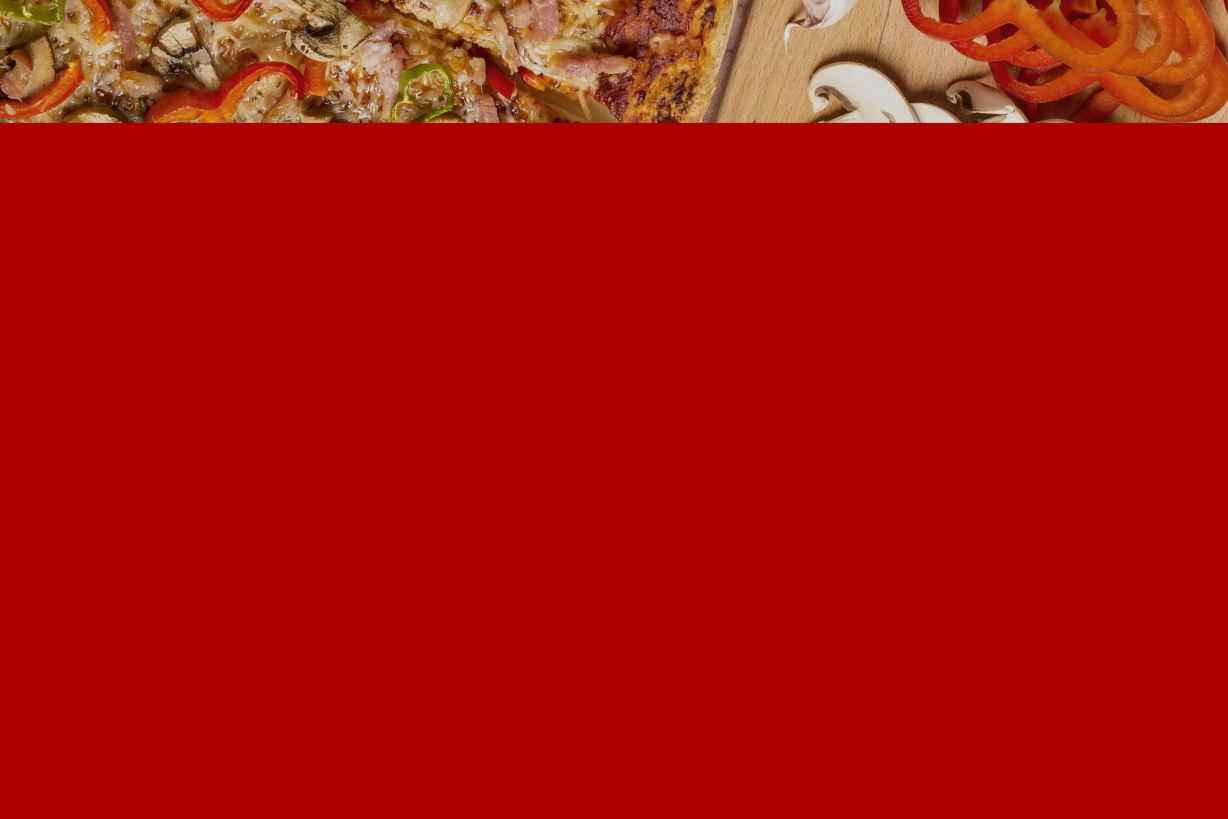
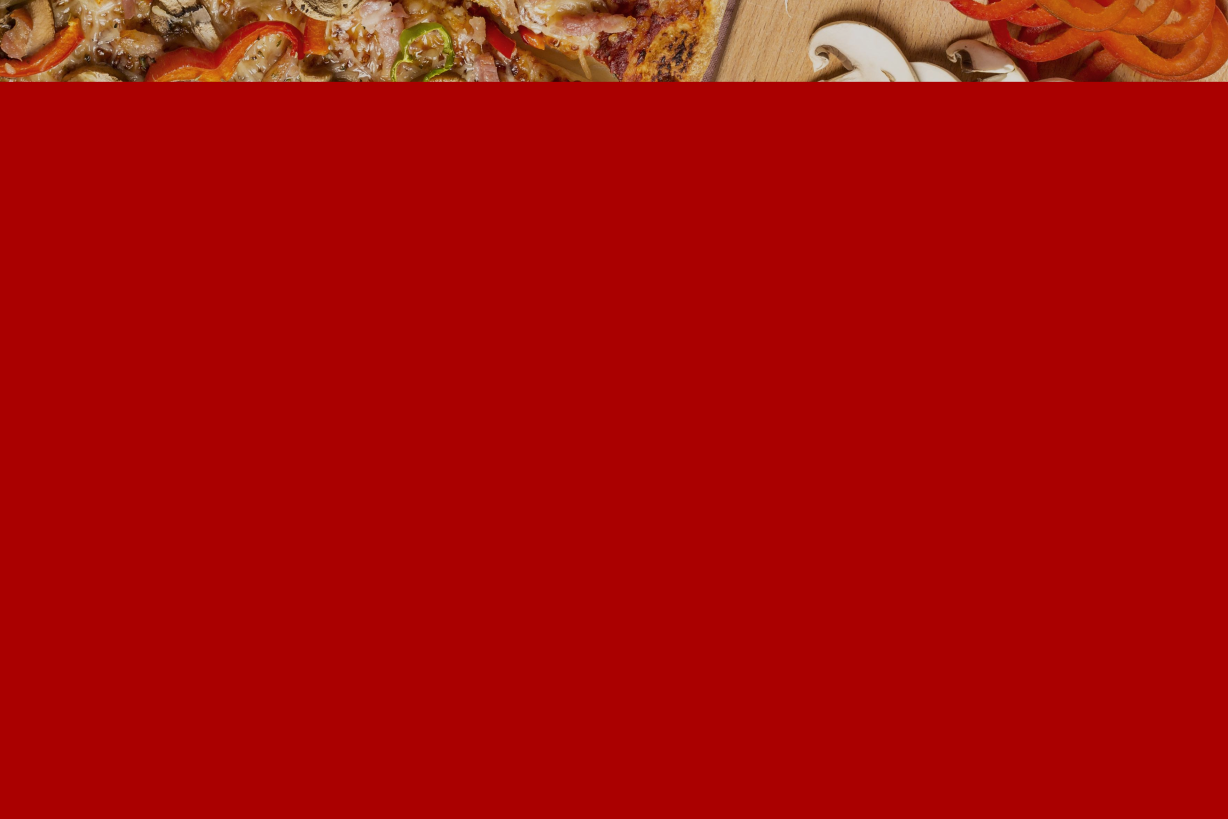
Construindo a página Quemsomos

Changed region(s): [[0.0, 0.0, 1.0, 0.1526]]

diff --git a/css/reset.css b/css/reset.css
@@ -1,0 +1,48 @@
+/* http://meyerweb.com/eric/tools/css/reset/ 
+   v2.0 | 20110126
+   License: none (public domain)
+*/
+
+html, body, div, span, applet, object, iframe,
+h1, h2, h3, h4, h5, h6, p, blockquote, pre,
+a, abbr, acronym, address, big, cite, code,
+del, dfn, em, img, ins, kbd, q, s, samp,
+small, strike, strong, sub, sup, tt, var,
+b, u, i, center,
+dl, dt, dd, ol, ul, li,
+fieldset, form, label, legend,
+table, caption, tbody, tfoot, thead, tr, th, td,
+article, aside, canvas, details, embed, 
+figure, figcaption, footer, header, hgroup, 
+menu, nav, output, ruby, section, summary,
+time, mark, audio, video {
+    margin: 0;
+    padding: 0;
+    border: 0;
+    font-size: 100%;
+    font: inherit;
+    vertical-align: baseline;
+}
+/* HTML5 display-role reset for older browsers */
+article, aside, details, figcaption, figure, 
+footer, header, hgroup, menu, nav, section {
+    display: block;
+}
+body {
+    line-height: 1;
+}
+ol, ul {
+    list-style: none;
+}
+blockquote, q {
+    quotes: none;
+}
+blockquote:before, blockquote:after,
+q:before, q:after {
+    content: '';
+    content: none;
+}
+table {
+    border-collapse: collapse;
+    border-spacing: 0;
+}

diff --git a/html/quemsomos.html b/html/quemsomos.html
@@ -1,1 +1,28 @@
 <!-- exto com informações da empresa, missão, valores (lista ordenada) -->
+
+<html lang="en">
+<head>
+    <meta charset="UTF-8">
+    <meta http-equiv="X-UA-Compatible" content="IE=edge">
+    <meta name="viewport" content="width=device-width, initial-scale=1.0">
+    <link rel="stylesheet" href="../css/quemsomos.css">
+    <link rel="stylesheet" href="../css/reset.css">
+    <link rel="Shortcut Icon" href="../images/BonAppetit.ico" type="image/x-icon">
+    <title>BonAppetit</title>
+</head>
+<body>
+    <div>
+        <img src="../images/BonAppetit2.png" height="134,2" width="329" id="logo">
+    </div>
+    <div id="About">
+        <p>About:</p>
+    </div>
+    <div id="About-text">
+        <p>Company dedicated to the production of delicious pizzas for our customers.</p>
+        <p>Aiming to bring new experiences through the flavors of each pizza.</p>
+    </div>
+   <!--  <div id="">
+
+    </div> -->
+</body>
+</html>

diff --git a/html/index.html b/html/index.html
@@ -6,13 +6,13 @@
     <meta http-equiv="X-UA-Compatible" content="IE=edge">
     <meta name="viewport" content="width=device-width, initial-scale=1.0">
     <link rel="stylesheet" href="../css/index.css">
+    <link rel="stylesheet" href="../css/reset.css">
     <link rel="Shortcut Icon" href="../images/BonAppetit.ico" type="image/x-icon">
     <title>BonAppetit</title>
 </head>
 <body>
     <div>
-        <!-- <img src="../images/pizza.jpg" id="pizza"> -->
-        <img src="../images/BonAppetit.png" height="278,6" width="550,6" id="logo">
+        <img src="../images/BonAppetit1.png" height="334,32" width="660,72" id="logo">
     </div>
 </body>
 </html>

diff --git a/css/quemsomos.css b/css/quemsomos.css
@@ -1,0 +1,34 @@
+body {
+    background-image: url(../images/Pizza2.png);
+    background-size: cover;
+    background-repeat: no-repeat;
+}
+
+#logo {
+    display: flex;
+    position: relative;
+    text-align: center;
+    margin: 55px auto;
+}
+
+#About {
+    font-family: Helvetica, sans-serif;
+    color: #FFF;
+    font-weight: bold;
+    font-size: 2rem;
+    position: relative;
+    text-align: left;
+    margin: 10px 0;
+    top: 30px;
+    left: 50px; 
+}
+
+#About-text {
+    font-family: Helvetica, sans-serif;
+    color: #FFF;
+    font-size: 1.3rem;
+    position: relative;
+    text-align: left;
+    top: 35px;
+    left: 50px; 
+}

diff --git a/css/index.css b/css/index.css
@@ -1,21 +1,10 @@
-* {
-    margin: 0;
-    padding: 0;
-    box-sizing: border-box;
-    font-family: Helvetica;
-    color: #323232;
-    border: none;
-}
-
 #logo {
     position: absolute;
-    top: 31.5%;
+    top: 32%;
     left: 60%;
 }
 
 body {
-    height: 100px;
-    width: 200px;
     background-image: url(../images/Pizza1.png);
     background-size: cover;
     background-repeat: no-repeat;
